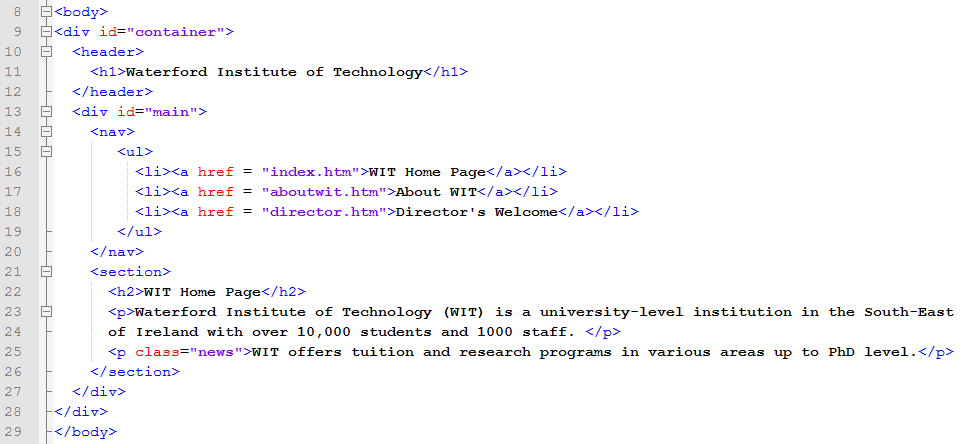
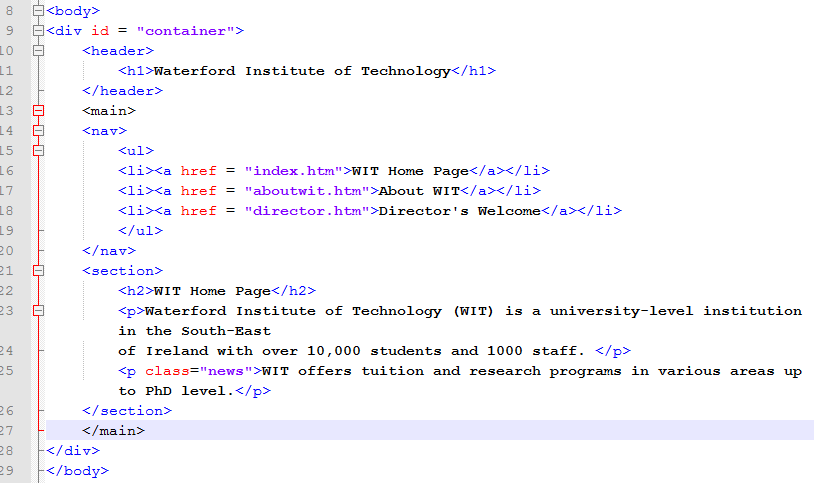
Edits to week 8 labs

Changed region(s): [[0.0, 0.0, 1.0, 0.9955]]

diff --git a/topic-08-Layout-2/book-00-Semantic-Layout/archives/lab01/aboutwit.htm b/topic-08-Layout-2/book-00-Semantic-Layout/archives/lab01/aboutwit.htm
@@ -1,0 +1,34 @@
+<!DOCTYPE html>
+<html lang="en">
+<head>
+  <meta charset="UTF-8">
+<title>About WIT</title>
+<link rel="stylesheet" href="css/mycss.css">
+</head>
+<body>
+<h1>Waterford Institute of Technology</h1>
+<ul>
+<li><a href = "index.htm">WIT Home Page</a></li>
+<li><a href = "aboutwit.htm">About WIT</a></li>
+<li><a href = "director.htm">Director's Welcome</a></li>
+</ul>
+<h2>About WIT </h2>
+<p>Waterford Institute of Technology is one of the largest institutes of technology in Ireland. It was established as a Regional Technical College in 1970, and was the first to be awarded Institute of Technology status in 1998. Over the period of this process, and as a result of an international quality review, the Institute was granted delegated authority by the National Council for Educational Awards to confer its own Certificates and Diplomas.
+</p><p>
+The Institute now confers its own awards at all levels from Higher Certificate to PhD,
+subject to standards set and monitored by the Higher Education and Training Awards Council
+(HETAC) which was established by the Government in June 2001,
+under the Qualifications (Education and Training) Act, 1999.
+The quality and standard of Irish educational awards is fully recognised globally.
+All Irish awards are included in the national framework of qualifications maintained
+by the <a href = "http://www.nqai.ie" target="_blank">National Qualifications Authority of Ireland</a>.
+</p><p class="news">
+Waterford Institute of Technology has the highest number of students within the Institute of Technology sector, outside of Dublin, participating at ordinary degree level and above. The Institute also offers unique post doctoral programmes in a number of specialist areas.
+</p><p>
+Being the major provider of higher education in the South East region of Ireland,
+the Institutes current full-time equivalent student cohort is in excess of six thousand, while part-time student enrolments exceed 3,000.
+The range of academic programmes is exceptionally extensive covering the Humanities,
+Health and Nursing, Science and Informatics, Engineering and Architecture,
+Business and Education.</p>
+</body>
+</html>

diff --git a/topic-08-Layout-2/book-00-Semantic-Layout/archives/lab01/director.htm b/topic-08-Layout-2/book-00-Semantic-Layout/archives/lab01/director.htm
@@ -1,0 +1,29 @@
+<!DOCTYPE html>
+<html lang="en">
+<head>
+  <meta charset="UTF-8">
+<title>Director</title>
+<link rel="stylesheet" href="css/mycss.css">
+</head>
+<body>
+<h1>Waterford Institute of Technology</h1>
+<ul>
+<li><a href = "index.htm">WIT Home Page</a></li>
+<li><a href = "aboutwit.htm">About WIT</a></li>
+<li><a href = "director.htm">Director's Welcome</a></li>
+</ul>
+<h2>Director's Welcome</h2>
+<p>
+<img src="images/president.jpg" alt = "WIT President">
+<br>
+Welcome to the Institute's website which is designed with a number of different perspectives in mind, most notably the student perspective.
+</p><p>
+In making programme choices, at whatever level, incoming students are also making career choices. It is important, then, that these decisions are well-informed and enlightened.
+</p><p>
+Visitors to this website are advised to seek out in detail all aspects of the programmes on offer. Equally important is the life and culture of the Institute. It is anticipated that the site will convey something of this culture, socially and academically.
+</p><p class="news">
+The Institute is renowned for its academic prowess and renowned, too, for its hospitality for new ideas and for new people. It provides for a campus where participation is encouraged across a wide range of activities.
+</p><p class="news">That sense of participation encourages a sense of belonging and a positive experience of the campus as an inclusive learning environment.
+</p>
+</body>
+</html>

diff --git a/topic-08-Layout-2/book-02-Navigation/archives/example/aboutwit.htm b/topic-08-Layout-2/book-02-Navigation/archives/example/aboutwit.htm
@@ -17,7 +17,7 @@
 		<li><a href = "director.htm">Director's Welcome</a></li>
 		</ul>
 	</nav>
-	<section>
+	<main>
 		<h2>About WIT </h2>
 		<p>Waterford Institute of Technology is one of the largest institutes of technology in Ireland. It was established as a Regional Technical College in 1970, and was the first to be awarded Institute of Technology status in 1998. Over the period of this process, and as a result of an international quality review, the Institute was granted delegated authority by the National Council for Educational Awards to confer its own Certificates and Diplomas.
 		</p><p>
@@ -36,7 +36,7 @@
 		The range of academic programmes is exceptionally extensive covering the Humanities,
 		Health and Nursing, Science and Informatics, Engineering and Architecture,
 		Business and Education.</p>
-	</section>
+	</main>
 </div>
 </body>
 </html>

diff --git a/topic-08-Layout-2/book-00-Semantic-Layout/archives/lab01/css/mycss.css b/topic-08-Layout-2/book-00-Semantic-Layout/archives/lab01/css/mycss.css
@@ -1,0 +1,65 @@
+html, body {
+ margin:0;
+ padding:0;
+ width:100%;
+ height:100%;
+}
+
+body{
+ color: black;
+ font-family: Verdana, Geneva, Arial, Helvetica, sans-serif;
+}
+
+h1, h2{
+ font-family: Georgia, "Times New Roman", Times, serif;
+}
+
+h1{
+ font-size: 1.5em;
+ color: black;
+}
+
+h2{
+ font-size: 1.25em;
+ color: #666;
+}
+
+ul {
+ list-style-type:none;
+}
+
+li {
+ margin-bottom:1em;
+ margin-left:0;
+}
+
+a:link, a:visited {
+ text-decoration: none;
+ color: black;
+}
+
+a:hover {
+ text-decoration: underline;
+}
+
+a:active {
+ color: aqua;
+}
+
+p a:link, p a:visited {
+ text-decoration: underline;
+}
+
+p a:hover {
+ text-decoration: none;
+}
+
+img {
+ float:right;
+ margin-left:1%;
+}
+
+p.news {
+ font-family:  cursive;
+}
+

diff --git a/topic-08-Layout-2/book-00-Semantic-Layout/archives/lab01/index.htm b/topic-08-Layout-2/book-00-Semantic-Layout/archives/lab01/index.htm
@@ -1,0 +1,20 @@
+<!DOCTYPE html>
+<html lang="en">
+<head>
+  <meta charset="UTF-8">
+<title>WIT Home Page</title>
+<link rel="stylesheet" href="css/mycss.css">
+</head>
+<body>
+<h1>Waterford Institute of Technology</h1>
+<ul>
+<li><a href = "index.htm">WIT Home Page</a></li>
+<li><a href = "aboutwit.htm">About WIT</a></li>
+<li><a href = "director.htm">Director's Welcome</a></li>
+</ul>
+<h2>WIT Home Page</h2>
+<p>Waterford Institute of Technology (WIT) is a university-level institution in the South-East
+of Ireland with over 10,000 students and 1000 staff. </p>
+<p class="news">WIT offers tuition and research programs in various areas up to PhD level.</p>
+</body>
+</html>

diff --git a/topic-08-Layout-2/book-00-Semantic-Layout/archives/examples/test3.htm b/topic-08-Layout-2/book-00-Semantic-Layout/archives/examples/test3.htm
@@ -6,11 +6,11 @@
 <link rel ="stylesheet" href="css/teststyle3.css">
 </head>
 <body>
-<div id="mainContainer">
+<div id="container">
 <header>
 This is the header
 </header> <!-- header -->
-<div id = "main">
+<main>
 <nav>
 <ul>
  <li><a href="http://www.wit.ie">Waterford IT</a></li>
@@ -24,9 +24,9 @@ This is the header
  <p>Morbi convallis lectus a elit. Morbi augue. Aenean quis ipsum non dui interdum egestas. Suspendisse quis turpis. Suspendisse et sem in neque dictum hendrerit. Nulla pede.</p>
 </article>
 </section> <!-- content -->
-</div> <!-- main -->
+</main> <!-- main -->
 
-</div> <!-- mainContainer -->
+</div> <!-- container -->
 </body>
 </html>
 

diff --git a/topic-08-Layout-2/book-02-Navigation/archives/example/director.htm b/topic-08-Layout-2/book-02-Navigation/archives/example/director.htm
@@ -17,7 +17,7 @@
 		<li><a href = "director.htm">Director's Welcome</a></li>
 		</ul>
 	</nav>
-	<section>
+	<main>
 		<h2>Director's Welcome</h2>
 		<p>
 		<img src="images/president.jpg" alt = "WIT President">
@@ -31,7 +31,7 @@
 		The Institute is renowned for its academic prowess and renowned, too, for its hospitality for new ideas and for new people. It provides for a campus where participation is encouraged across a wide range of activities.
 		</p><p class="news">That sense of participation encourages a sense of belonging and a positive experience of the campus as an inclusive learning environment.
 		</p>
-	</section>
+	</main>
 </div>
 </body>
 </html>

diff --git a/topic-08-Layout-2/book-00-Semantic-Layout/archives/examples/test2.htm b/topic-08-Layout-2/book-00-Semantic-Layout/archives/examples/test2.htm
@@ -9,9 +9,9 @@
 
 <body>
 
-<div id="mainContainer">
+<div id="container">
 <header>this is the header</header>
-<div id ="main">
+<main>
 <nav>
 <ul>
 <li><a href="http://www.wit.ie">Waterford IT</a></li>
@@ -27,11 +27,11 @@
 
  <p>Morbi convallis lectus a elit. Morbi augue. Aenean quis ipsum non dui interdum egestas. Suspendisse quis turpis. Suspendisse et sem in neque dictum hendrerit. Nulla pede.</p>
 </article>
-</section> <!-- content -->
+</section> 
 
-</div> <!-- main -->
+</main> 
 <footer>footer</footer>
-</div>
+</div> <!-- container -->
 </body>
 </html>
 

diff --git a/topic-08-Layout-2/book-02-Navigation/archives/example/index.htm b/topic-08-Layout-2/book-02-Navigation/archives/example/index.htm
@@ -17,12 +17,12 @@
 		<li><a href = "director.htm">Director's Welcome</a></li>
 		</ul>
 	</nav>
-	<section>
+	<main>
 		<h2>WIT Home Page</h2>
 		<p>Waterford Institute of Technology (WIT) is a university-level institution in the South-East
 		of Ireland with over 10,000 students and 1000 staff. </p>
 		<p class="news">WIT offers tuition and research programs in various areas up to PhD level.</p>
-	</section>
+	</main>
 </div>
 </body>
 </html>

diff --git a/topic-08-Layout-2/book-00-Semantic-Layout/archives/examples/test1.htm b/topic-08-Layout-2/book-00-Semantic-Layout/archives/examples/test1.htm
@@ -9,7 +9,7 @@
 
 <body>
 
-<div id="mainContainer">
+<main>
 <header><h1>this is the header</h1></header>
 <section>
 <article>
@@ -21,7 +21,7 @@
 </article>
 </section>
 <footer>footer</footer>
-</div>
+</main>
 </body>
 </html>
 

diff --git a/topic-08-Layout-2/book-00-Semantic-Layout/archives/examples/css/teststyle3.css b/topic-08-Layout-2/book-00-Semantic-Layout/archives/examples/css/teststyle3.css
@@ -5,7 +5,7 @@ body, html {
   height:100%;
 } 
 
-#mainContainer {
+#container {
   margin: 2em;
 }
 
@@ -16,7 +16,7 @@ header {
   margin-bottom: 5%;
 }
 
-#main {
+main {
   position: relative;
   width: 100%;
 }

diff --git a/topic-08-Layout-2/book-00-Semantic-Layout/archives/examples/css/teststyle2.css b/topic-08-Layout-2/book-00-Semantic-Layout/archives/examples/css/teststyle2.css
@@ -5,7 +5,7 @@ body, html {
   height:100%;
 }
 
-#mainContainer {
+#container {
   margin: 2em;
 }
 
@@ -16,7 +16,7 @@ header {
   margin-bottom:5%;
 }
 
-#main {
+main {
   overflow:hidden;
 }
 
